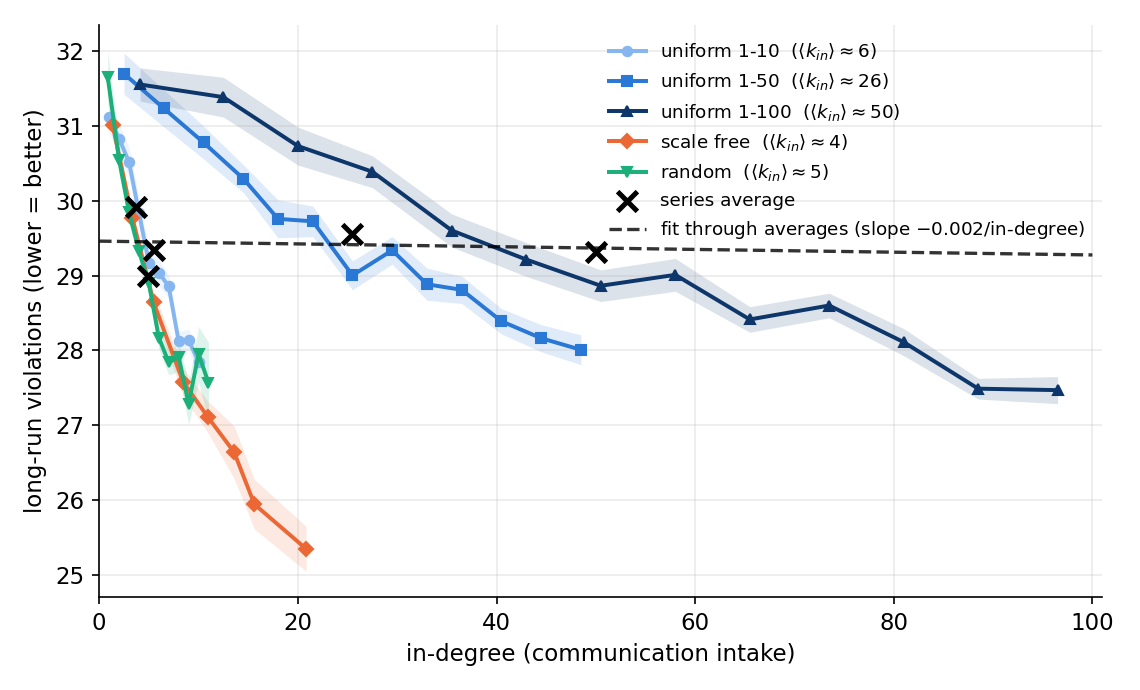
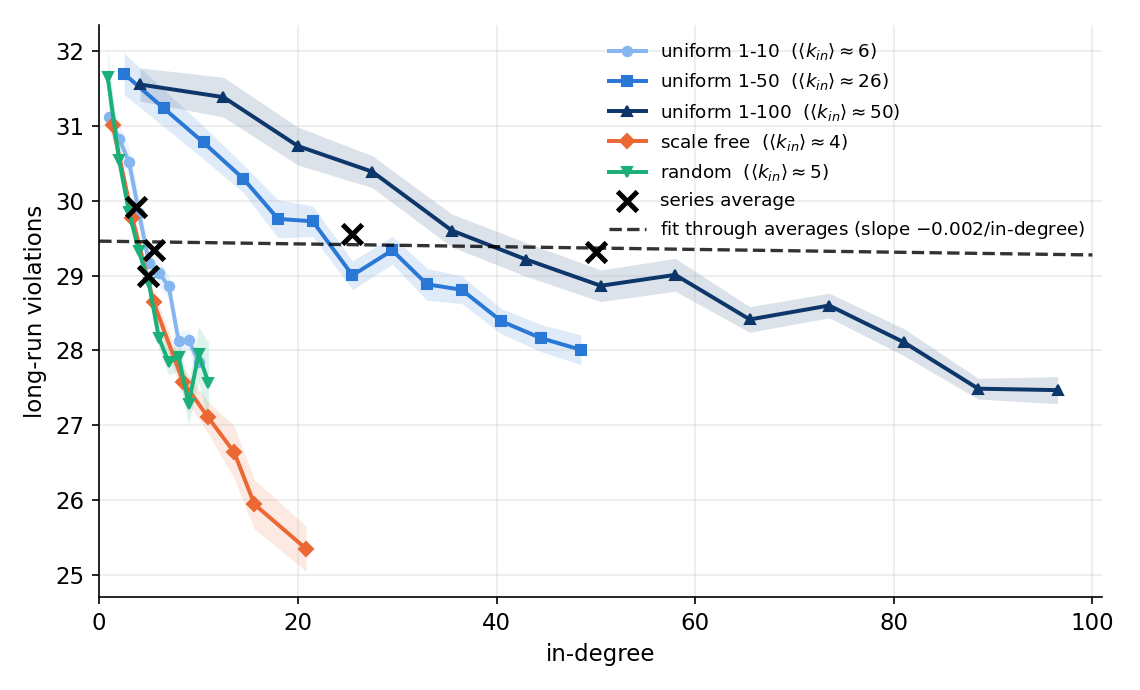
nothing serious

diff --git a/model/_other/claude_investigations/_replot_multinet.py b/model/_other/claude_investigations/_replot_multinet.py
@@ -63,8 +63,8 @@ xline = np.array([0, 100])
 ax.plot(xline, slope * xline + intercept, "--", color="black", lw=1.6, alpha=0.8,
         label=f"fit through averages (slope ${slope:+.3f}$/in-degree)", zorder=5)
 
-ax.set_xlabel("in-degree (communication intake)")
-ax.set_ylabel("long-run violations (lower = better)")
+ax.set_xlabel("in-degree")
+ax.set_ylabel("long-run violations")
 ax.set_xlim(0, 101)
 ax.legend(frameon=False, loc="upper right", fontsize=8.8)
 fig.tight_layout()
